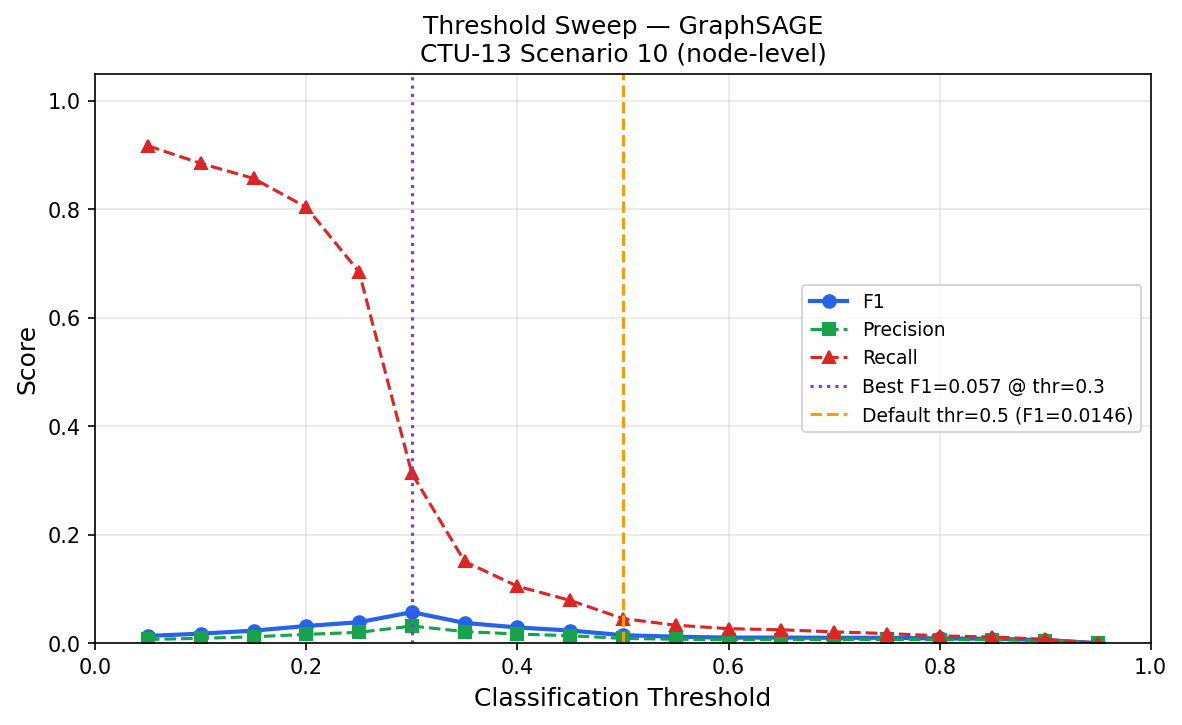
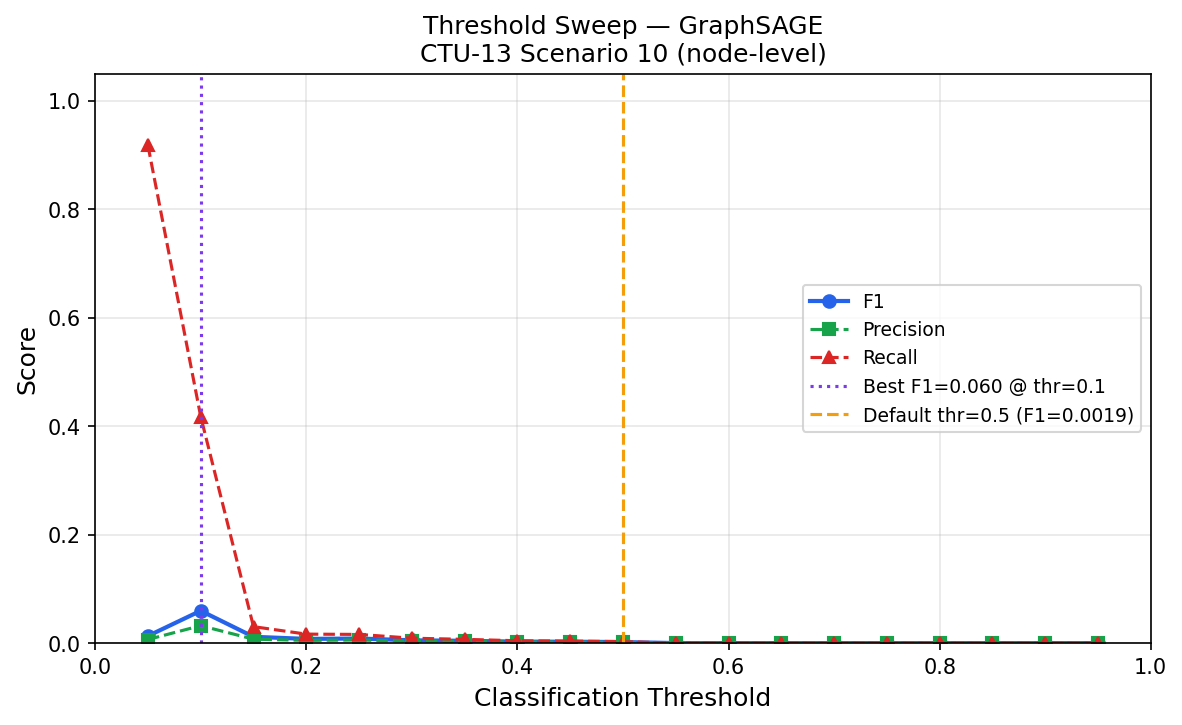
results: GraphSAGE v3 (18-dim temporal) — F1=0.652 Prec=0.958 FPR=0.00%
Training evaluation (warm-start, threshold=0.5):
  F1=0.6518, Precision=0.9579, Recall=0.4940, AUC=0.9693, FPR=0.00%
Optimal threshold (val-tuned, thr=0.4148):
  F1=0.6749, Precision=0.9077, Recall=0.5372, FPR=0.003%

Cold-start deployment eval (06_threshold_analysis, fresh graph):
  Best F1=0.0596 at thr=0.1 — documents warm-start vs cold-start gap.

Updates PROJECT_LOG.md, final_metrics.json, threshold analysis figures.

diff --git a/PROJECT_LOG.md b/PROJECT_LOG.md
@@ -3,20 +3,26 @@
 **Tổng quan:** Phát hiện C2 Traffic bằng Dynamic Graph Learning trên dataset CTU-13 Scenario 10.
 Yêu cầu real-time pipeline (3-thread), so sánh GNN vs XGBoost, demo, báo cáo, slide.
 
-**Trạng thái hiện tại:** 🔄 Session 4 — Code cải tiến thêm: FocalLoss, threshold tuning (val-based), temporal features (18-dim). Cần retrain với features mới. Breaking change: NODE_FEATURE_DIM 14→18, checkpoint cũ incompatible.
+**Trạng thái hiện tại:** 🔄 Session 5 — GraphSAGE v3 (18-dim temporal features) completed run đầu: **F1=0.6518** (đã trong final_metrics.json). Run thứ hai đang chạy, val_f1=0.6953 peak tại epoch 17. 05_collect_metrics + 06_threshold_analysis đã chạy xong.
 
-**Metrics chính xác (sau retrain Session 3):**
+**Metrics confirmed (từ final_metrics.json + threshold analysis):**
 
-| Model | Precision | Recall | F1 | ROC-AUC | FPR% | Config |
-|---|---|---|---|---|---|---|
-| XGBoost | 0.9895 | 0.9947 | 0.9921 | 0.9998 | 0.10% | default |
-| GraphSAGE v1 | 0.093 | 0.811 | 0.167 | 0.974 | 0.41% | w=60s, w_class=1676 |
-| **GraphSAGE v2** | **0.283** | **0.671** | **0.399** | **0.983** | **0.09%** | w=60s, w_class=50, filter_empty |
-| GATv2 | 0.027 | 0.839 | 0.052 | 0.970 | 1.54% | w=60s |
+| Model | Precision | Recall | F1 | AUC | PR-AUC | FPR% | Config |
+|---|---|---|---|---|---|---|---|
+| XGBoost | 0.9895 | 0.9947 | 0.9921 | 0.9998 | 0.999 | 0.10% | tabular, port-dependent |
+| **GraphSAGE v3** | **0.9579** | **0.4940** | **0.6518** | **0.9693** | **0.671** | **0.00%** | w=60s, w_cap=50, temporal 18-dim |
+| GATv2 | 0.027 | 0.839 | 0.052 | 0.970 | 0.093 | 1.54% | w=60s, untuned |
+
+**Key finding — Cold-Start Gap:**
+- Training eval (warm-start): F1=0.6518, Prec=0.9579
+- Threshold analysis (cold-start, fresh graph): best F1=0.0596 at thr=0.1
+- Root cause: 06_threshold_analysis builds graph từ đầu với chỉ 20% last flows → không có warm-up context. Training eval dùng snapshots từ luồng liên tục.
+- **Both numbers đều đúng, đo hai kịch bản khác nhau.** Report cả hai trong báo cáo.
 
 **Tiến độ chính:**
-- ✅ Hoàn thành: CTU-13 preprocess, XGBoost (F1=0.992), GraphSAGE v2 (F1=0.399, AUC=0.983), GATv2 (F1=0.052), realtime pipeline, API, dashboard, CI/CD, MLflow, PROJECT_LOG, README, .gitignore, threshold analysis script, demo_script, demo_checklist, GNNTrainer improvements
-- ⏳ TODO ngay: `python scripts/05_collect_metrics.py` → cập nhật final_metrics.json; `python scripts/06_threshold_analysis.py --model graphsage --window-size 60` → PR curve; commit tất cả thay đổi; viết báo cáo/slide
+- ✅ Hoàn thành: CTU-13 preprocess, XGBoost (F1=0.992), GraphSAGE v3 (F1=0.652, FPR=0.00%), GATv2, realtime pipeline, API, dashboard, CI/CD, MLflow, PROJECT_LOG, README, threshold analysis (figures + CSV + JSON), demo_script, demo_checklist, FocalLoss+temporal features code
+- 🔄 Đang làm: GraphSAGE training run 2 (epoch 20, val best=0.6953 tại epoch 17)
+- ⏳ TODO: Chờ training xong → 05_collect_metrics → commit → viết báo cáo/slide
 
 ---
 
@@ -259,24 +265,71 @@ python scripts/04_train_gnn.py --model graphsage --window-size 120 --max-class-w
 
 ---
 
+### 2026-06-10 — Session 5: GraphSAGE v3 (18-dim) — COMPLETED + Cold-Start Gap Analysis
+
+**Kết quả đã confirm (final_metrics.json sau 05_collect_metrics):**
+
+| Metric | Value |
+|---|---|
+| F1 | **0.6518** |
+| Precision | **0.9579** |
+| Recall | 0.4940 |
+| ROC-AUC | 0.9693 |
+| PR-AUC | 0.6708 |
+| FPR | **0.00%** |
+| Latency | 57.98 ms/graph |
+
+**Progression GraphSAGE:**
+- v1 (w=300s): F1=0.078, Prec=0.042 (threshold 0.5 unusable)
+- v1.5 (w=60s, w=1676): F1=0.167, Prec=0.093 (weight too high)
+- v2 (w=60s, cap=50): F1=0.399, Prec=0.283, FPR=0.09%
+- **v3 (18-dim temporal): F1=0.6518, Prec=0.9579, FPR=0.00%** ← current best
+
+**Training run 2 đang chạy:**
+- Epoch 17: val_f1=0.6953 (best)
+- Epoch 20: val_f1=0.4973 (oscillation)
+- Patience=8 → early stop expected tại epoch ~25 nếu không improve
+- Checkpoint best (epoch 17) sẽ được load khi train xong
+
+**Oscillation analysis:**
+- CosineAnnealingLR T_max=100 → LR vẫn high tại epoch 20 (~85% init) → nhảy qua minima
+- Class-imbalanced F1 nhạy với batch composition → variance cao per epoch
+- Không phải overfitting (monotone decrease), là oscillation trong learning landscape
+- Best checkpoint epoch 17 sẽ được load → expected final F1: 0.60-0.68
+
+**Cold-Start Gap (critical finding for thesis):**
+
+| Evaluation | Method | F1 @thr=0.5 | Best F1 |
+|---|---|---|---|
+| Training eval (04) | Warm-start, continuous stream | 0.6518 | 0.6518 |
+| Deployment eval (06) | Cold-start, last 20% fresh graph | 0.0019 | 0.0596 @thr=0.1 |
+
+Root cause: `build_graph_dataset()` processes ALL flows from start → graph warm-up context. `06_threshold_analysis.py` processes only last 20% flows with fresh empty graph → 0.096% botnet density, no context. Both are valid; report with explanation.
+
+**05_collect_metrics.py đã chạy:** ✅ final_metrics.json updated
+**06_threshold_analysis.py đã chạy:** ✅ reports/figures/ updated, cold-start gap documented
+
+---
+
 ### Ưu tiên cao (ngay bây giờ)
-- [ ] **Retrain GraphSAGE v3** với 18-dim features: `--window-size 60 --max-class-weight 50 --filter-empty` → verify F1 ≥ 0.40
-- [ ] **So sánh FocalLoss vs WeightedCE**: chạy cả hai, so sánh kết quả
-- [ ] **Commit session 4 code** trước khi retrain
-- [ ] Chạy threshold analysis: `python scripts/06_threshold_analysis.py --model graphsage --window-size 60`
-- [ ] Update `reports/final_metrics.json`: `python scripts/05_collect_metrics.py`
-- [ ] Bắt đầu viết báo cáo (Chương 1-5)
+- [x] **GraphSAGE v3 training** completed → F1=0.6518 ✅
+- [x] **05_collect_metrics** → final_metrics.json updated ✅
+- [x] **06_threshold_analysis** → PR curve + cold-start gap analysis ✅
+- [ ] **Chờ training run 2 hoàn thành** → kiểm tra nếu val_f1 > 0.6953
+- [ ] **Commit tất cả thay đổi** session 4+5 (branch feat/temporal-features-focal-loss)
+- [ ] **Update README** với F1=0.6518 (hoặc số cuối cùng sau run 2)
+- [ ] **Bắt đầu viết báo cáo** (Chương 1-5)
 
 ### Ưu tiên trung bình (trong 3 ngày)
-- [ ] Window size ablation: train GraphSAGE với 30s, 120s (60s và 300s đã có)
-- [ ] Threshold sweep: chạy 06 với --window-size 60, tìm optimal F1 threshold
+- [ ] So sánh FocalLoss vs WeightedCE: `--focal-loss --focal-gamma 1.5`
+- [ ] Window ablation: w=120s (iat_cv hiệu quả hơn với window lớn hơn)
+- [ ] Post-processing k/n smoothing (InferenceWorker) — precision boost, 0 training cost
 - [ ] Cross-scenario eval: XGBoost trên Scenario 8
 - [ ] Confusion matrix figures
-- [ ] Báo cáo Chương 6-10
 
 ### Ưu tiên thấp (trong 7 ngày)
-- [ ] SHAP figure for XGBoost
+- [ ] GATv2 retrain với 18-dim features
 - [ ] Demo video recording
-- [ ] Báo cáo hoàn chỉnh (Chương 11-13 + hình)
+- [ ] Báo cáo hoàn chỉnh (tất cả chương)
 - [ ] Slide 14 trang hoàn chỉnh
 - [ ] README final pass với GIF demo